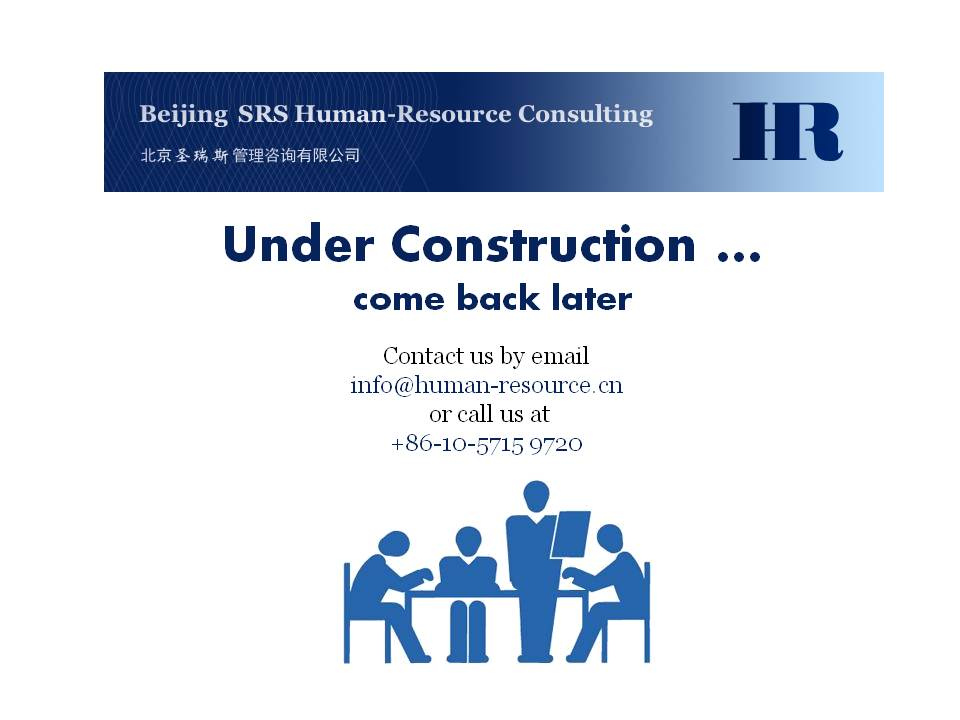
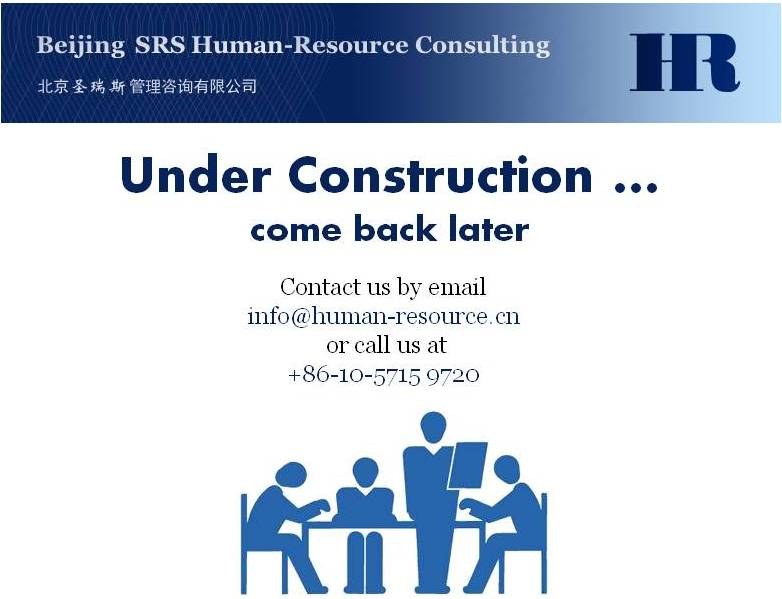
a little change to the first page

diff --git a/index.html b/index.html
@@ -7,16 +7,24 @@
 <link rel="shortcut icon" href="favicon.ico"/> 
 <title>Beijing SRS Human Resource Consulting</title>
 <style type="text/css">
-html {
-	background: url(images/underconstruction.jpg) no-repeat center center fixed; 
-	-webkit-background-size: 45%;
-	-moz-background-size: 45%;
-	-o-background-size: 45%;
-	background-size: 45%;
+html, body {
+	height: 100%;
+}
+#img {
+	width: 100%;
+	height: 100%;
+	background-image: url(images/underconstruction.jpg);
+	background-repeat: no-repeat;
+	background-position: center top;
+	/*-moz-background-size: 60%;
+	-o-background-size: 60%;
+	-webkit-background-size: 60%;
+	background-size: 60%;*/
 }
 </style>
 </head>
 <body>
+<div id="img"></div>
 <script type="text/javascript">
 var gaJsHost = (("https:" == document.location.protocol) ? "https://ssl." : "http://www.");
 document.write(unescape("%3Cscript src='" + gaJsHost + "google-analytics.com/ga.js' type='text/javascript'%3E%3C/script%3E"));
